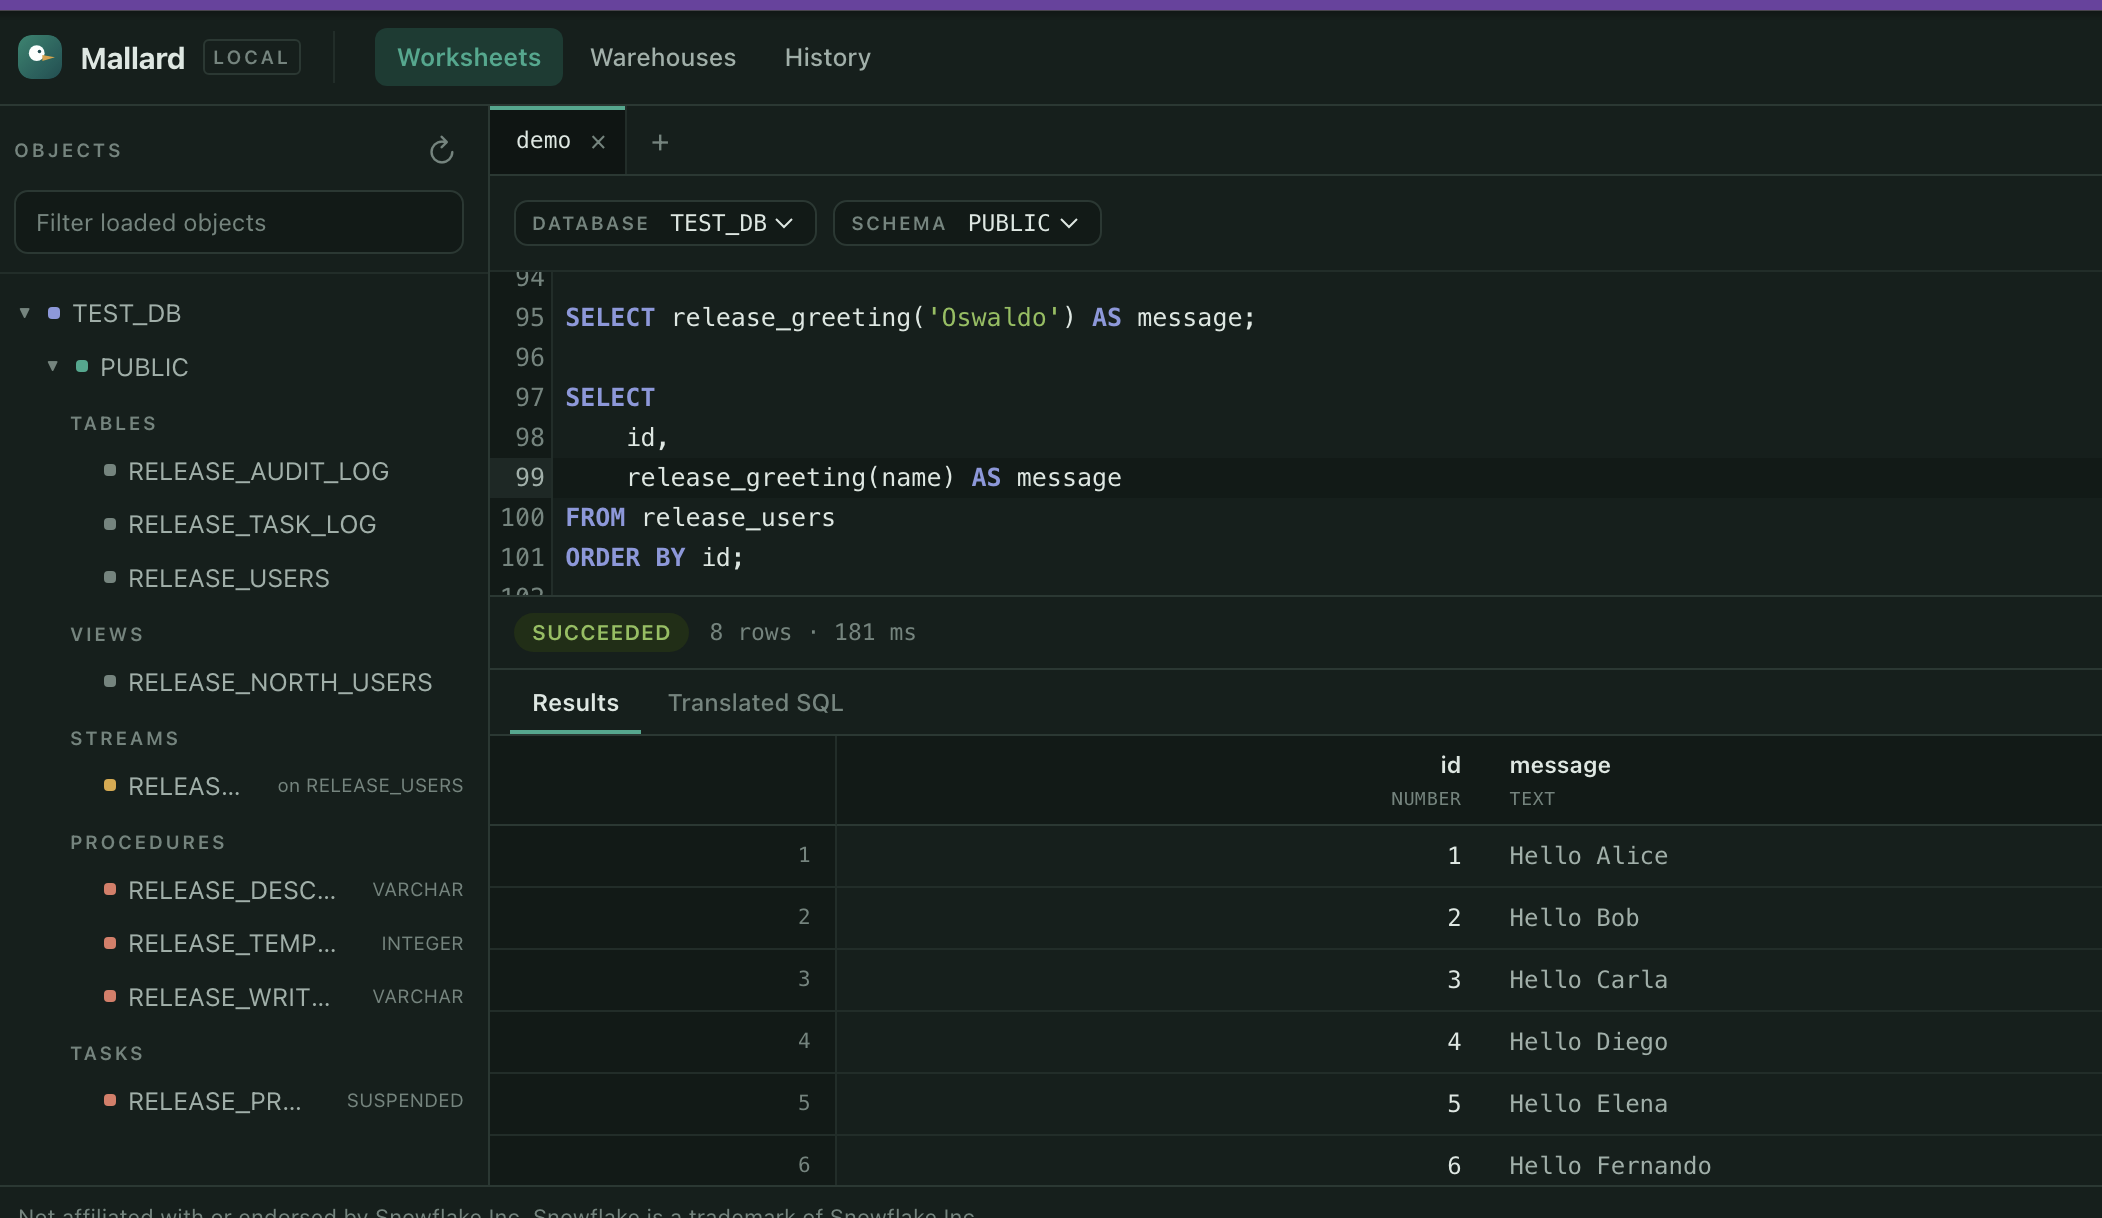
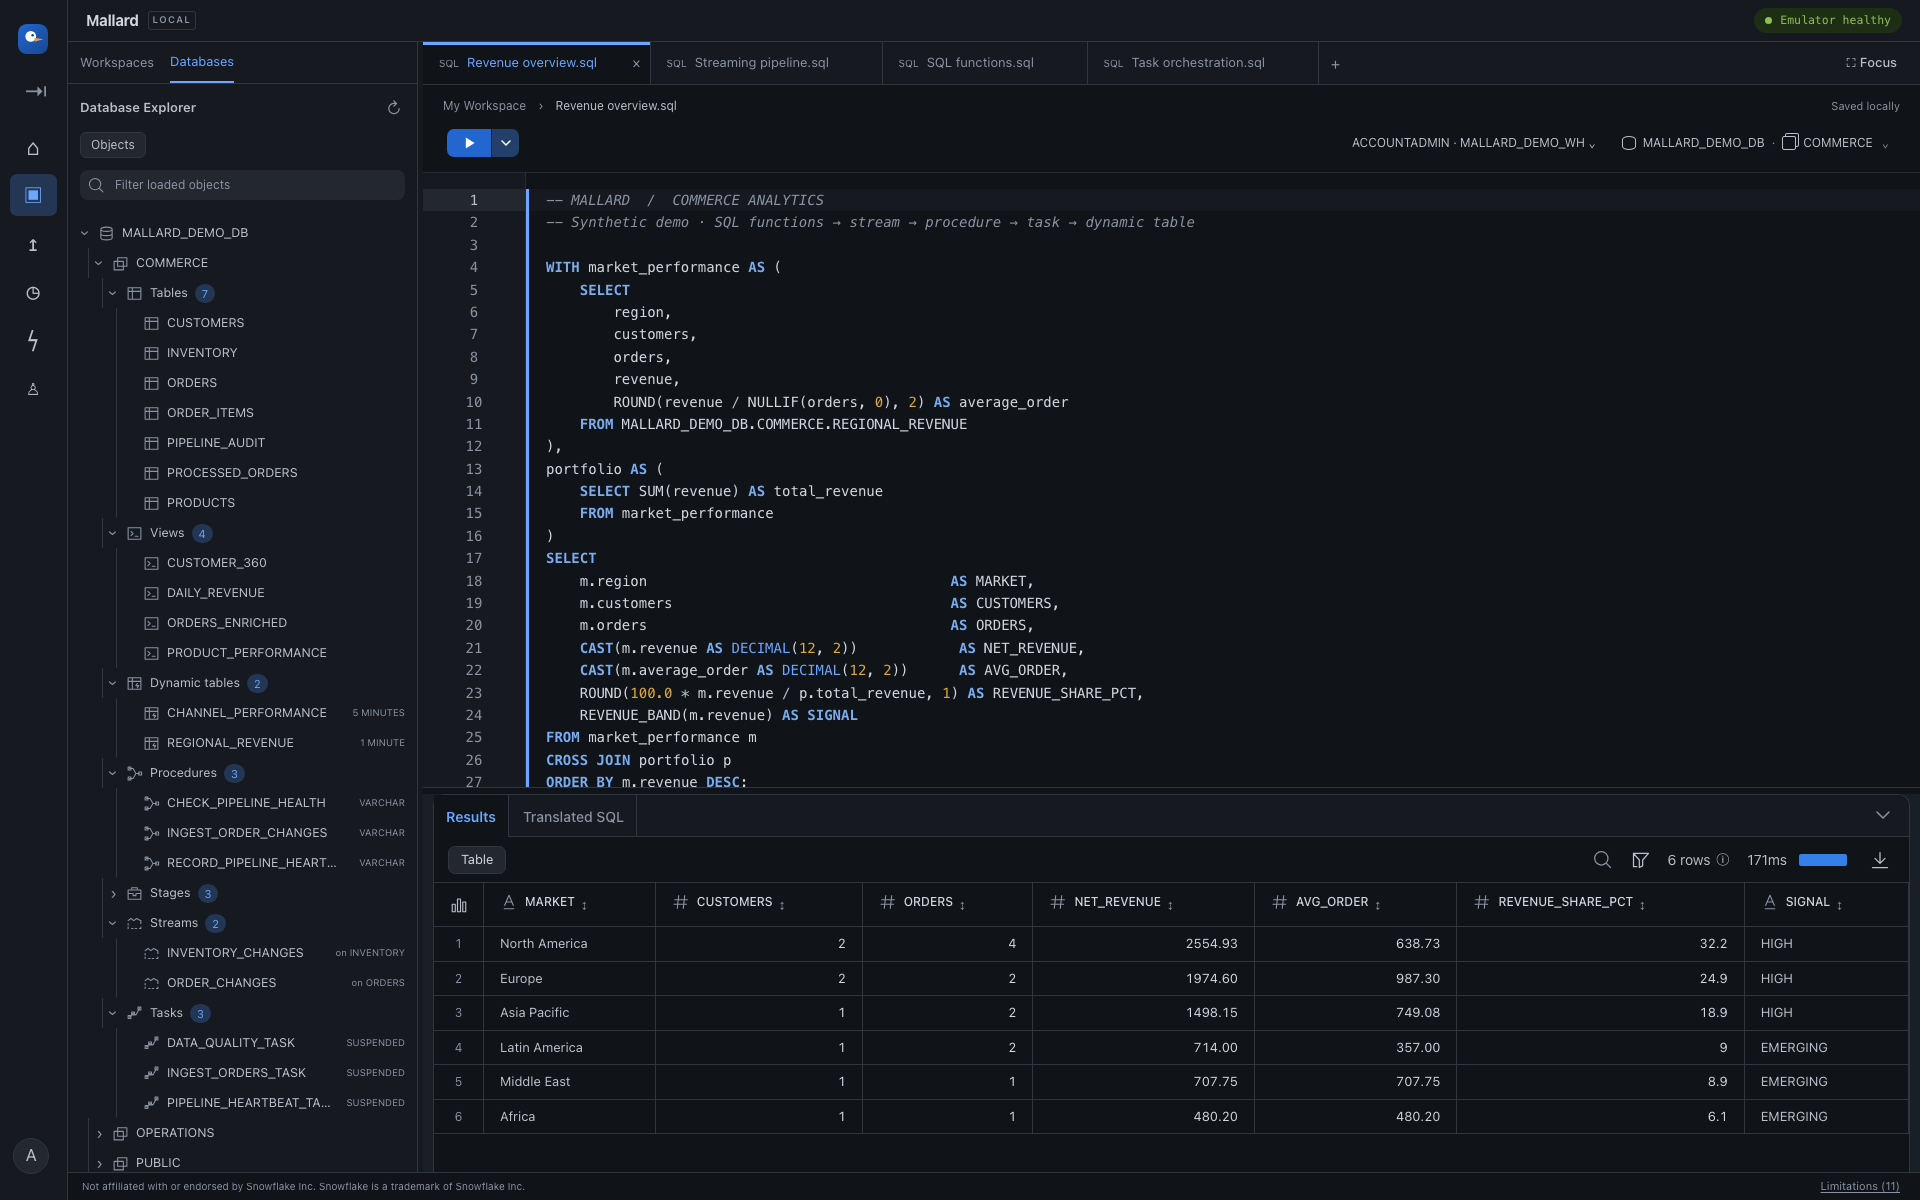
update mallard picture

diff --git a/src/styles.scss b/src/styles.scss
@@ -19,6 +19,23 @@ body {
   font-family: system-ui, -apple-system, BlinkMacSystemFont, 'Segoe UI', sans-serif;
 }
 
+body,
+app-root,
+app-root .space-backdrop,
+app-root .planet-card,
+app-root .top-link-button,
+app-root .theme-toggle,
+app-root .social-icons a,
+app-root app-hobbies .card,
+app-root app-projects .project-card,
+app-root app-experience .job-card {
+  transition:
+    background 0.35s ease,
+    border-color 0.35s ease,
+    color 0.35s ease,
+    box-shadow 0.35s ease;
+}
+
 app-root {
   display: block;
   min-height: 100vh;
@@ -205,6 +222,45 @@ app-root .top-links {
   flex-wrap: wrap;
 }
 
+app-root .header-actions {
+  display: flex;
+  align-items: center;
+  gap: 0.85rem;
+}
+
+app-root .theme-toggle {
+  display: inline-flex;
+  min-width: 92px;
+  height: 36px;
+  align-items: center;
+  justify-content: center;
+  gap: 0.5rem;
+  padding: 0 0.85rem;
+  border: 1px solid rgba(129, 191, 255, 0.24);
+  border-radius: 999px;
+  background: rgba(255, 255, 255, 0.08);
+  color: #fff;
+  font: inherit;
+  font-size: 0.78rem;
+  font-weight: 700;
+  letter-spacing: 0.03em;
+  cursor: pointer;
+  backdrop-filter: blur(10px);
+}
+
+app-root .theme-toggle:hover {
+  border-color: rgba(129, 191, 255, 0.44);
+  background: rgba(255, 255, 255, 0.16);
+  transform: translateY(-2px);
+}
+
+app-root .theme-toggle:focus-visible,
+app-root .top-link-button:focus-visible,
+app-root .social-icons a:focus-visible {
+  outline: 3px solid #6ec8ff;
+  outline-offset: 3px;
+}
+
 app-root .top-link-button {
   display: inline-flex;
   align-items: center;
@@ -382,7 +438,7 @@ app-root app-projects .project-content {
   height: 100%;
 }
 
-app-root app-projects .project-card--featured {
+app-root app-projects .projects-grid .project-card.project-card--featured {
   grid-column: 1 / -1;
   display: grid;
   grid-template-columns: minmax(0, 1.25fr) minmax(320px, 0.75fr);
@@ -391,11 +447,14 @@ app-root app-projects .project-card--featured {
   background: linear-gradient(135deg, rgba(12, 38, 36, 0.94), rgba(15, 20, 38, 0.92));
 }
 
-app-root app-projects .project-card--featured img {
-  height: 100%;
-  min-height: 390px;
+app-root app-projects .projects-grid .project-card.project-card--featured img {
+  height: auto;
+  min-height: 0;
+  flex-shrink: 0;
+  align-self: center;
   margin-bottom: 0;
-  object-position: left top;
+  object-fit: contain;
+  object-position: center;
 }
 
 app-root app-projects .featured-label {
@@ -444,6 +503,114 @@ app-root app-projects .docker-setup pre {
   white-space: pre-wrap;
   overflow-wrap: anywhere;
   user-select: all;
+}
+
+html[data-theme='light'],
+html[data-theme='light'] body {
+  background: #edf5ff;
+  color: #10213d;
+}
+
+html[data-theme='light'] app-root {
+  background:
+    radial-gradient(circle at 18% 18%, rgba(52, 124, 225, 0.2), transparent 22%),
+    radial-gradient(circle at 82% 28%, rgba(37, 184, 207, 0.14), transparent 25%),
+    linear-gradient(180deg, #dcecff 0%, #f8fbff 42%, #eaf2fb 100%);
+  color: #10213d;
+}
+
+html[data-theme='light'] app-root .space-backdrop {
+  background:
+    radial-gradient(circle at 12% 20%, rgba(42, 108, 224, 0.17), transparent 20%),
+    radial-gradient(circle at 84% 62%, rgba(24, 166, 194, 0.14), transparent 28%),
+    linear-gradient(180deg, #dbeaff 0%, #f9fcff 48%, #edf4fc 100%);
+}
+
+html[data-theme='light'] app-root .stars-layer {
+  opacity: 0.11;
+  filter: invert(1) sepia(1) saturate(5) hue-rotate(175deg);
+}
+
+html[data-theme='light'] app-root .aurora {
+  opacity: 0.18;
+}
+
+html[data-theme='light'] app-root .top-link-button,
+html[data-theme='light'] app-root .theme-toggle,
+html[data-theme='light'] app-root .social-icons a {
+  border-color: rgba(31, 83, 153, 0.18);
+  background: rgba(255, 255, 255, 0.66);
+  color: #12305c;
+  box-shadow: 0 8px 24px rgba(37, 83, 140, 0.1);
+}
+
+html[data-theme='light'] app-root .top-link-button:hover,
+html[data-theme='light'] app-root .theme-toggle:hover,
+html[data-theme='light'] app-root .social-icons a:hover {
+  border-color: rgba(31, 83, 153, 0.32);
+  background: rgba(255, 255, 255, 0.94);
+}
+
+html[data-theme='light'] app-root .planet-card {
+  border-color: rgba(40, 94, 160, 0.2);
+  background: linear-gradient(180deg, rgba(255, 255, 255, 0.78), rgba(239, 247, 255, 0.66));
+  box-shadow:
+    0 24px 70px rgba(37, 83, 140, 0.18),
+    inset 0 1px 0 rgba(255, 255, 255, 0.9);
+}
+
+html[data-theme='light'] app-root .role,
+html[data-theme='light'] app-root .description,
+html[data-theme='light'] app-root .description-list {
+  color: #314968;
+}
+
+html[data-theme='light'] app-root app-hobbies .hobbies-section h2,
+html[data-theme='light'] app-root app-projects .projects-section h2,
+html[data-theme='light'] app-root app-experience .experience-section h2 {
+  color: #10213d;
+}
+
+html[data-theme='light'] app-root app-hobbies .card,
+html[data-theme='light'] app-root app-projects .project-card,
+html[data-theme='light'] app-root app-experience .job-card {
+  border: 1px solid rgba(40, 94, 160, 0.14);
+  background: rgba(255, 255, 255, 0.8);
+  color: #253c5b;
+  box-shadow: 0 16px 40px rgba(37, 83, 140, 0.14);
+}
+
+html[data-theme='light'] app-root app-hobbies .card-title,
+html[data-theme='light'] app-root app-hobbies .card-text,
+html[data-theme='light'] app-root app-projects .project-card,
+html[data-theme='light'] app-root app-projects .project-card h3,
+html[data-theme='light'] app-root app-projects .tech,
+html[data-theme='light'] app-root app-experience .job-info,
+html[data-theme='light'] app-root app-experience .job-info h3,
+html[data-theme='light'] app-root app-experience .job-info h4,
+html[data-theme='light'] app-root app-experience .job-info li,
+html[data-theme='light'] app-root app-experience .years {
+  color: #253c5b;
+}
+
+html[data-theme='light'] app-root app-projects .projects-grid .project-card.project-card--featured {
+  border-color: rgba(19, 137, 113, 0.28);
+  background: linear-gradient(135deg, rgba(225, 249, 242, 0.92), rgba(239, 246, 255, 0.94));
+}
+
+html[data-theme='light'] app-root app-projects .featured-label,
+html[data-theme='light'] app-root app-projects .docker-setup > span {
+  color: #08745f;
+}
+
+html[data-theme='light'] app-root app-projects .project-description {
+  color: #31534d;
+}
+
+html[data-theme='light'] app-root app-projects .docker-setup pre {
+  border-color: rgba(19, 137, 113, 0.24);
+  background: #102620;
+  color: #e6fff8;
 }
 
 @keyframes star-drift-1 {
@@ -499,13 +666,11 @@ app-root app-projects .docker-setup pre {
 }
 
 @media (max-width: 820px) {
-  app-root app-projects .project-card--featured {
+  app-root app-projects .projects-grid .project-card.project-card--featured {
     display: flex;
   }
 
-  app-root app-projects .project-card--featured img {
-    height: 230px;
-    min-height: 0;
+  app-root app-projects .projects-grid .project-card.project-card--featured img {
     margin-bottom: 1.2rem;
   }
 }
@@ -518,6 +683,11 @@ app-root app-projects .docker-setup pre {
 
   app-root .top-links {
     justify-content: center;
+  }
+
+  app-root .header-actions {
+    justify-content: center;
+    flex-wrap: wrap;
   }
 
   app-root .top-link-button {
@@ -590,6 +760,10 @@ app-root app-projects .docker-setup pre {
   }
 
   app-root .social-icons a {
+    backdrop-filter: none;
+  }
+
+  app-root .theme-toggle {
     backdrop-filter: none;
   }
 

diff --git a/src/app/app.component.html b/src/app/app.component.html
@@ -1,4 +1,4 @@
-<div class="space-page" #spacePage>
+<div class="space-page" #spacePage [attr.data-theme]="theme()">
   <div class="space-backdrop" aria-hidden="true">
     <div class="stars-layer stars-layer-1"></div>
     <div class="stars-layer stars-layer-2"></div>
@@ -32,26 +32,38 @@
           Visit My space
         </a>
       </div>
+      <div class="header-actions">
+        <button
+          type="button"
+          class="theme-toggle"
+          (click)="toggleTheme()"
+          [attr.aria-label]="theme() === 'dark' ? 'Switch to light theme' : 'Switch to dark theme'">
+          <i
+            class="fa-solid"
+            [class.fa-sun]="theme() === 'dark'"
+            [class.fa-moon]="theme() === 'light'"
+            aria-hidden="true"></i>
+          <span>{{ theme() === 'dark' ? 'Light' : 'Dark' }}</span>
+        </button>
 
+        <nav class="social-icons" aria-label="Social links">
+          <a href="https://x.com/OswaldOniShango" target="_blank" rel="noopener noreferrer" aria-label="X profile">
+            <i class="fab fa-x-twitter"></i>
+          </a>
 
-      <nav class="social-icons">
-        <a href="https://x.com/OswaldOniShango" target="_blank" rel="noopener noreferrer">
-          <i class="fab fa-x-twitter"></i>
-        </a>
+          <a href="https://github.com/OswaldOniSango" target="_blank" rel="noopener noreferrer" aria-label="GitHub profile">
+            <i class="fab fa-github"></i>
+          </a>
 
-        <a href="https://github.com/OswaldOniSango" target="_blank" rel="noopener noreferrer">
-          <i class="fab fa-github"></i>
-        </a>
+          <a href="https://www.linkedin.com/in/oswaldohernandez1104/" target="_blank" rel="noopener noreferrer" aria-label="LinkedIn profile">
+            <i class="fab fa-linkedin"></i>
+          </a>
 
-        <a href="https://www.linkedin.com/in/oswaldohernandez1104/" target="_blank" rel="noopener noreferrer">
-          <i class="fab fa-linkedin"></i>
-        </a>
-
-        <a href="https://www.instagram.com/oswaldonisango/" target="_blank" rel="noopener noreferrer">
-          <i class="fab fa-instagram"></i>
-        </a>
-
-      </nav>
+          <a href="https://www.instagram.com/oswaldonisango/" target="_blank" rel="noopener noreferrer" aria-label="Instagram profile">
+            <i class="fab fa-instagram"></i>
+          </a>
+        </nav>
+      </div>
     </header>
 
     <main class="hero">

diff --git a/src/app/app.component.ts b/src/app/app.component.ts
@@ -7,10 +7,15 @@ import {
   ViewChild,
   afterNextRender,
   inject,
+  signal,
 } from '@angular/core';
 import { HobbiesComponent } from './sections/hobbies/hobbies.component';
 import { ProjectsComponent } from './sections/projects/projects.component';
 import { ExperienceComponent } from "./sections/experience/experience.component";
+
+type Theme = 'dark' | 'light';
+
+const THEME_STORAGE_KEY = 'personal-web-theme';
 
 @Component({
   selector: 'app-root',
@@ -23,12 +28,15 @@ import { ExperienceComponent } from "./sections/experience/experience.component"
 export class AppComponent {
   @ViewChild('spacePage') private spacePage?: ElementRef<HTMLElement>;
 
+  readonly theme = signal<Theme>('dark');
+
   private readonly ngZone = inject(NgZone);
   private readonly destroyRef = inject(DestroyRef);
   private animationFrameId: number | null = null;
 
   constructor() {
     afterNextRender(() => {
+      this.restoreTheme();
       this.syncEarthMotion();
 
       this.ngZone.runOutsideAngular(() => {
@@ -47,6 +55,36 @@ export class AppComponent {
         });
       });
     });
+  }
+
+  toggleTheme(): void {
+    const nextTheme: Theme = this.theme() === 'dark' ? 'light' : 'dark';
+
+    this.applyTheme(nextTheme);
+
+    try {
+      localStorage.setItem(THEME_STORAGE_KEY, nextTheme);
+    } catch {
+      // The theme still works when browser storage is unavailable.
+    }
+  }
+
+  private restoreTheme(): void {
+    let savedTheme: string | null = null;
+
+    try {
+      savedTheme = localStorage.getItem(THEME_STORAGE_KEY);
+    } catch {
+      // Keep the existing dark theme when browser storage is unavailable.
+    }
+
+    this.applyTheme(savedTheme === 'light' ? 'light' : 'dark');
+  }
+
+  private applyTheme(theme: Theme): void {
+    this.theme.set(theme);
+    document.documentElement.dataset['theme'] = theme;
+    document.documentElement.style.colorScheme = theme;
   }
 
   private requestEarthMotionSync(): void {
